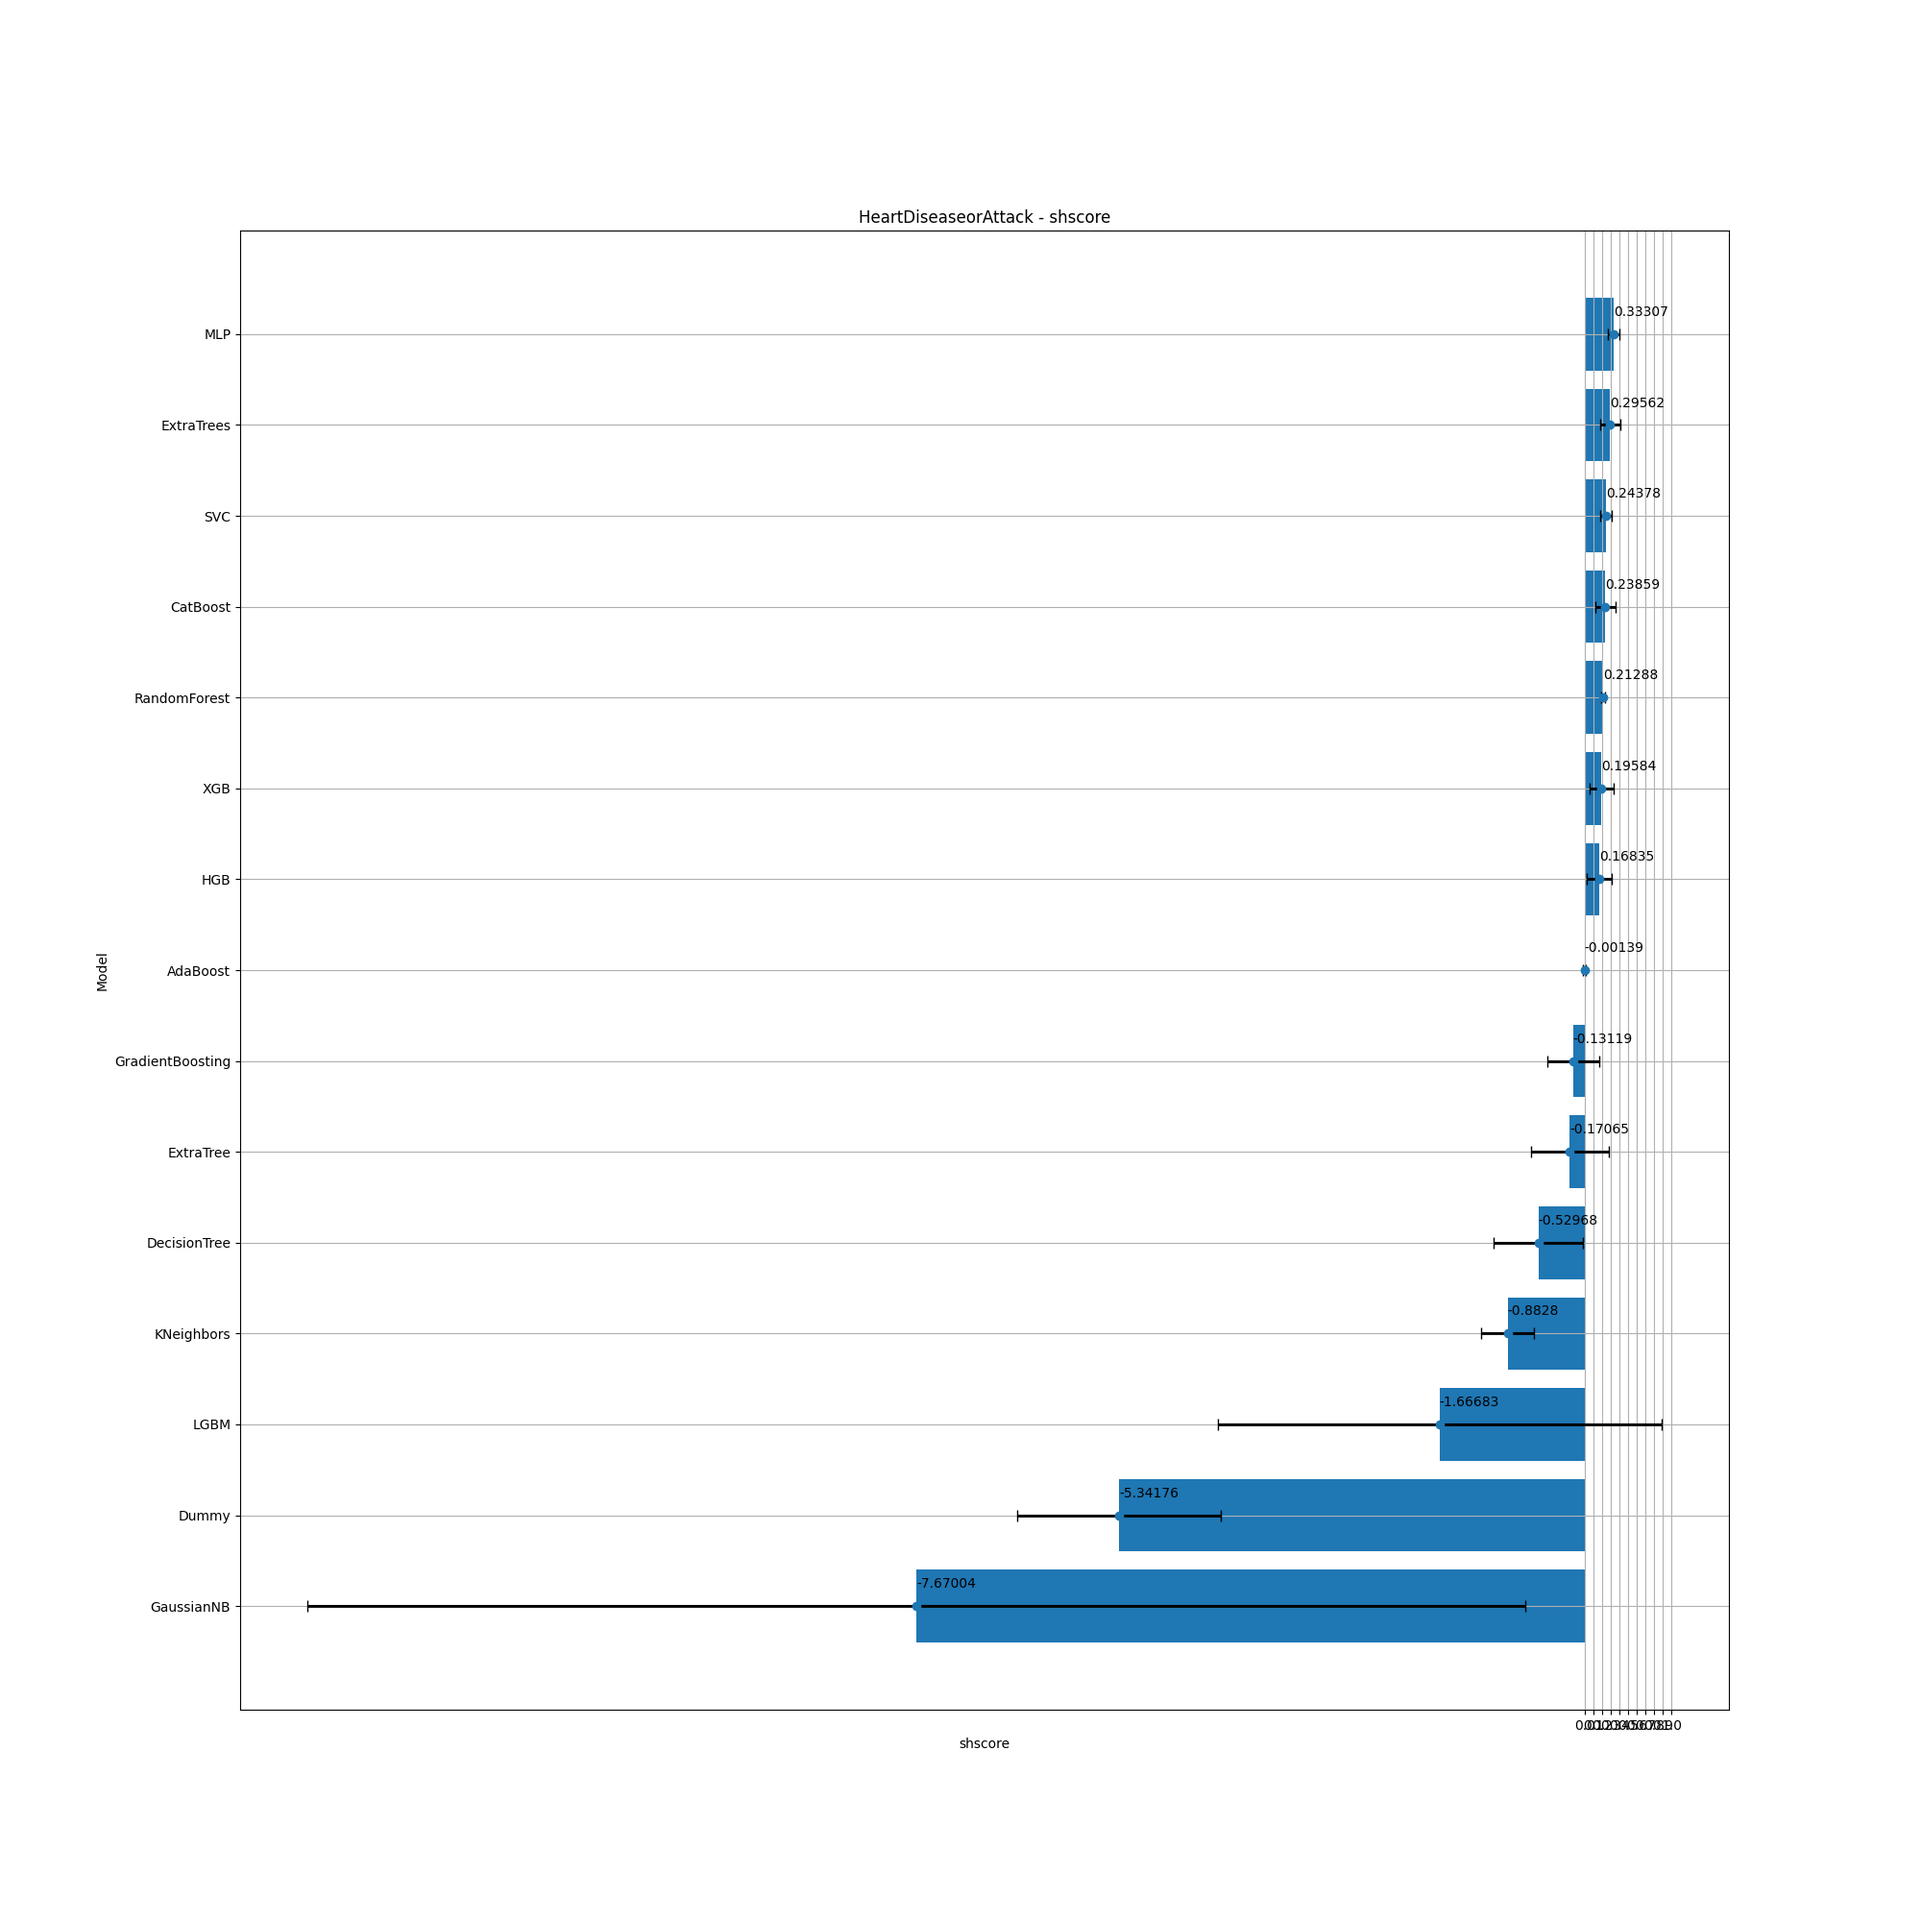
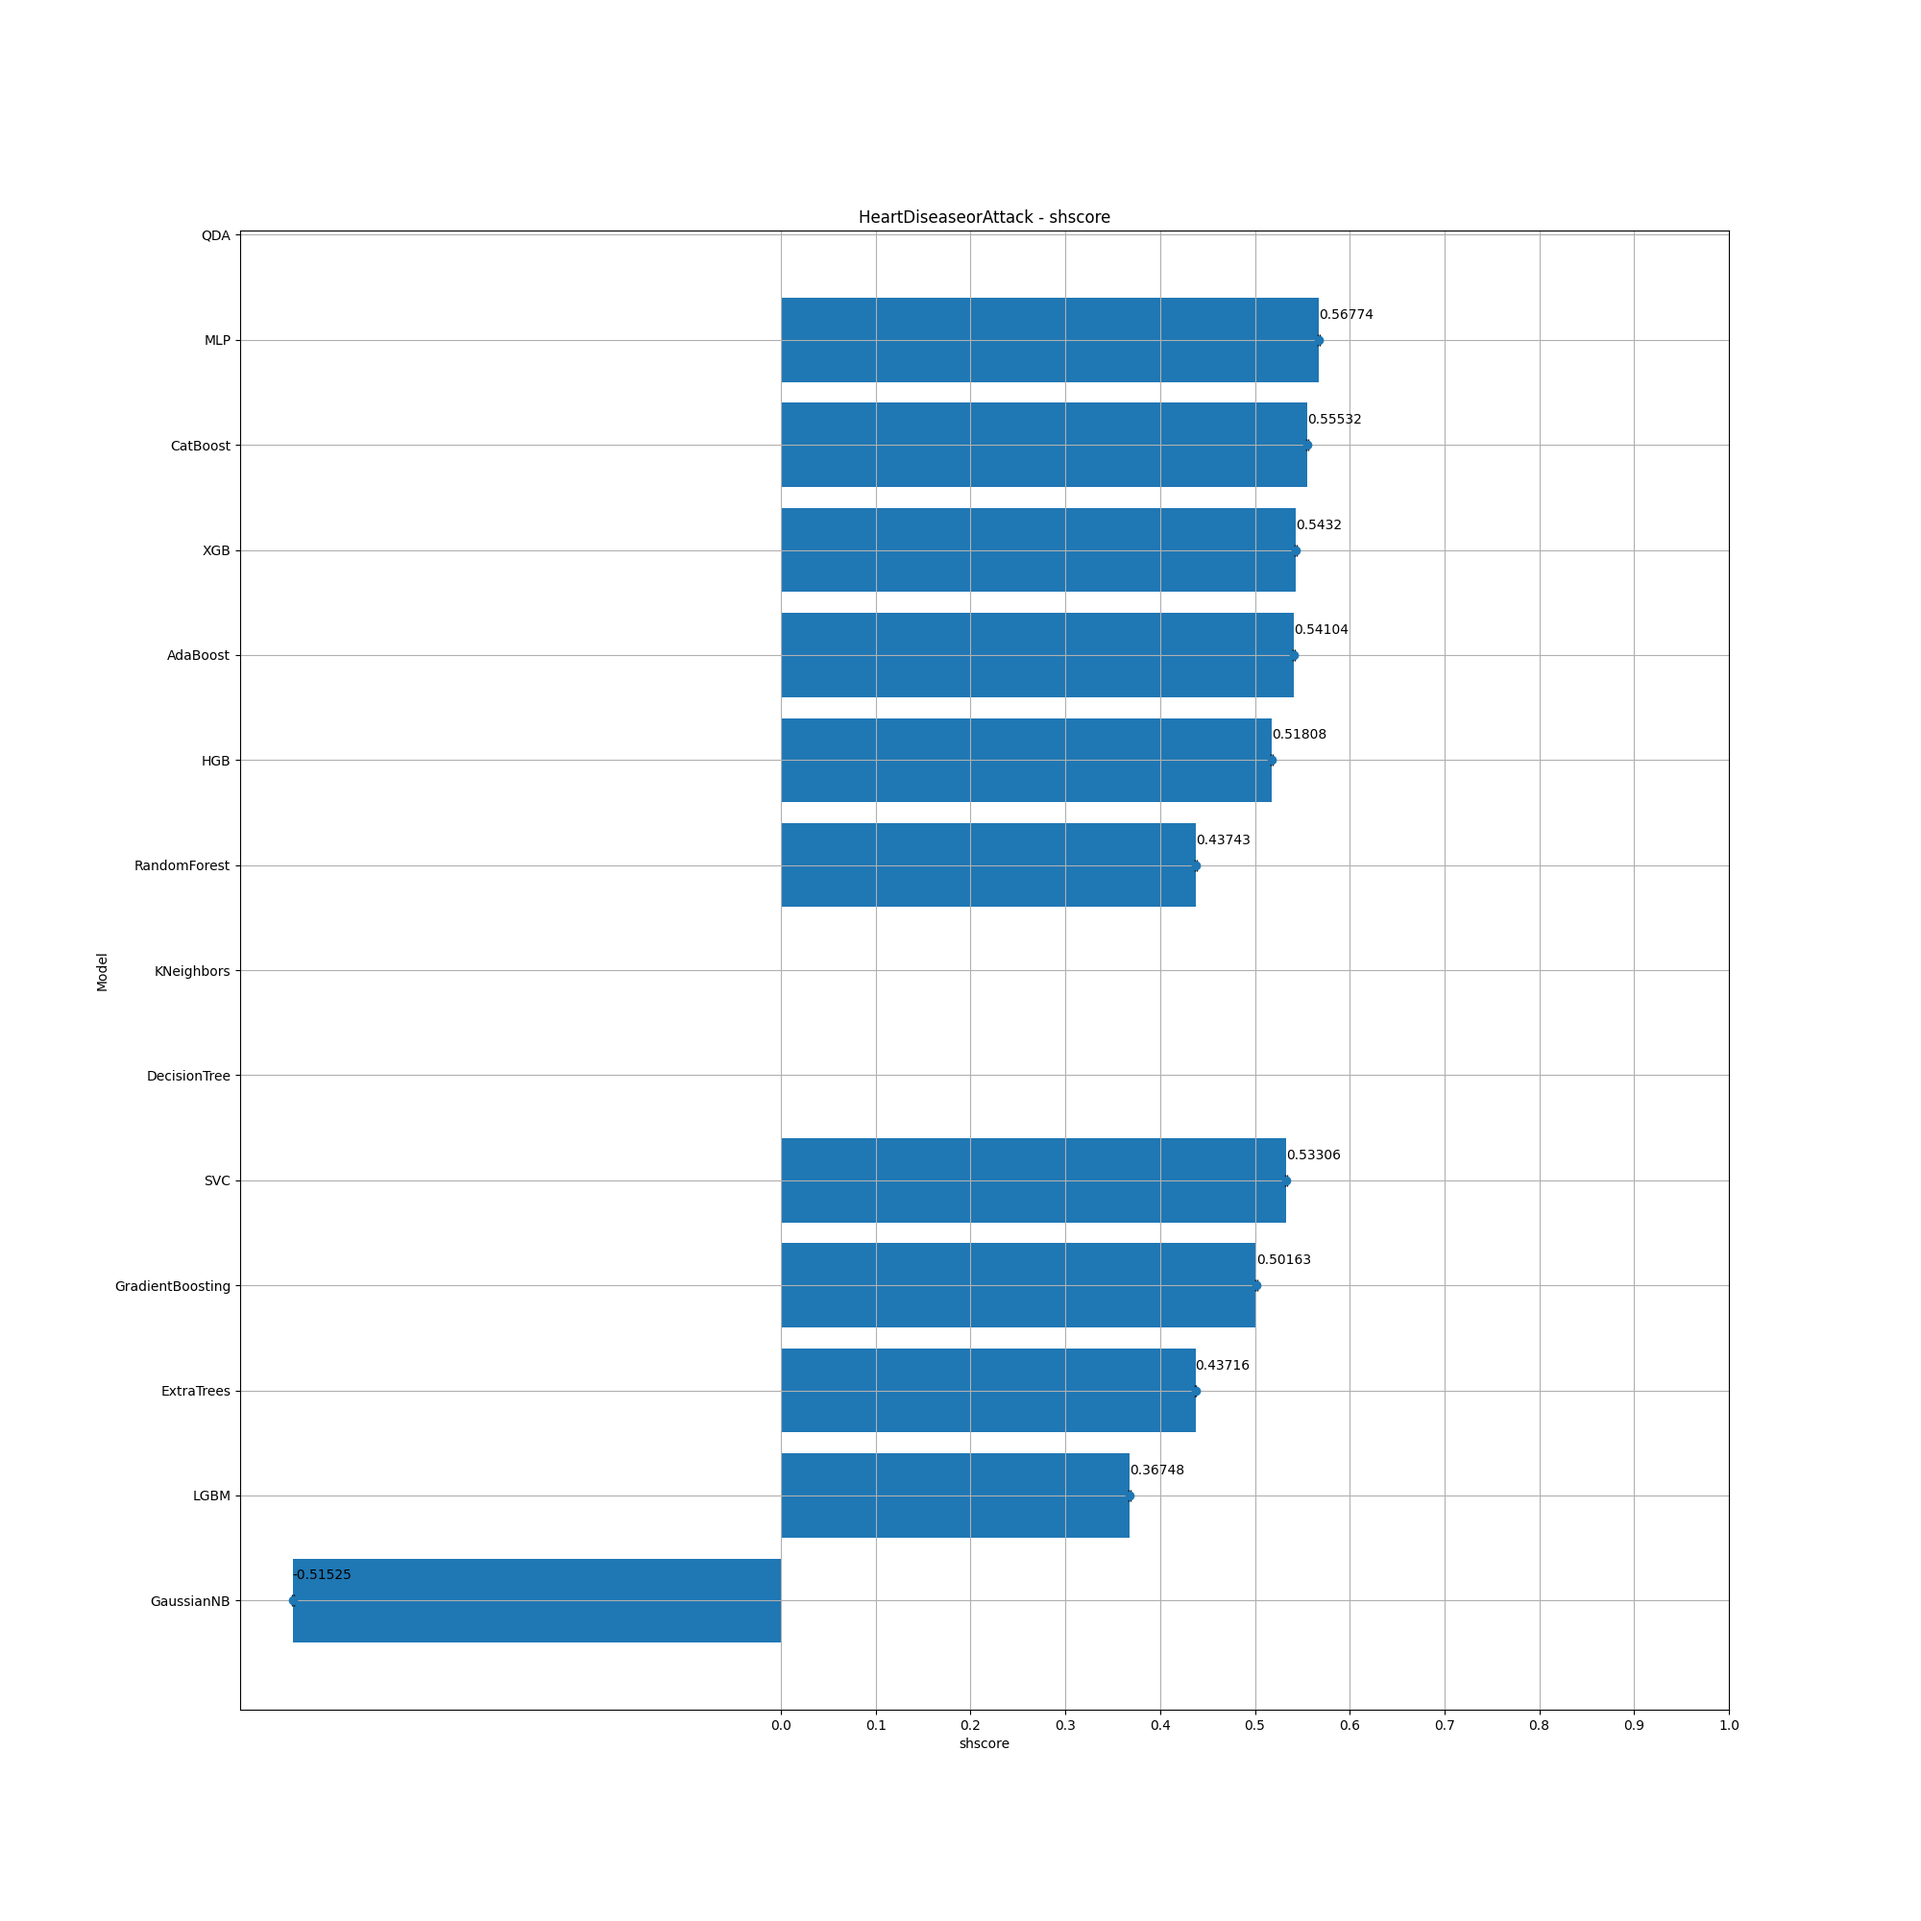
fix all graphing of the sorts

diff --git a/mtf/graph.py b/mtf/graph.py
@@ -108,7 +108,9 @@ with Progress(
 
         # loop through all rows
         for index, row in data.iterrows():
-            # Get the key for the dictionary
+            if row['value'] == None:
+                continue
+                # Get the key for the dictionary
             key = f"{row['output']}*{row['metric']}*{row['model']}"
             # Check if key exists
             if key in combine_trials:
@@ -126,19 +128,20 @@ with Progress(
         for key in combine_trials:
             # Get the output, metric, model from the key
             output, metric, model = key.split('*')
-            try:
-                mean_values = mean(combine_trials[key])
-                stdev_values = stdev(combine_trials[key])
-                # create the key if it doesn't exist
-                if output not in processed_trials:
-                    processed_trials[output] = dict()
-                if metric not in processed_trials[output]:
-                    processed_trials[output][metric] = list()
 
-                processed_trials[output][metric].append(
-                    (model, mean_values, stdev_values))
+            mean_values = mean(combine_trials[key])
+            try:
+                stdev_values = stdev(combine_trials[key])
             except:
-                continue
+                stdev_values = 0.001
+            # create the key if it doesn't exist
+            if output not in processed_trials:
+                processed_trials[output] = dict()
+            if metric not in processed_trials[output]:
+                processed_trials[output][metric] = list()
+
+            processed_trials[output][metric].append(
+                (model, mean_values, stdev_values))
 
         for output in processed_trials:
             for metric in processed_trials[output]:
